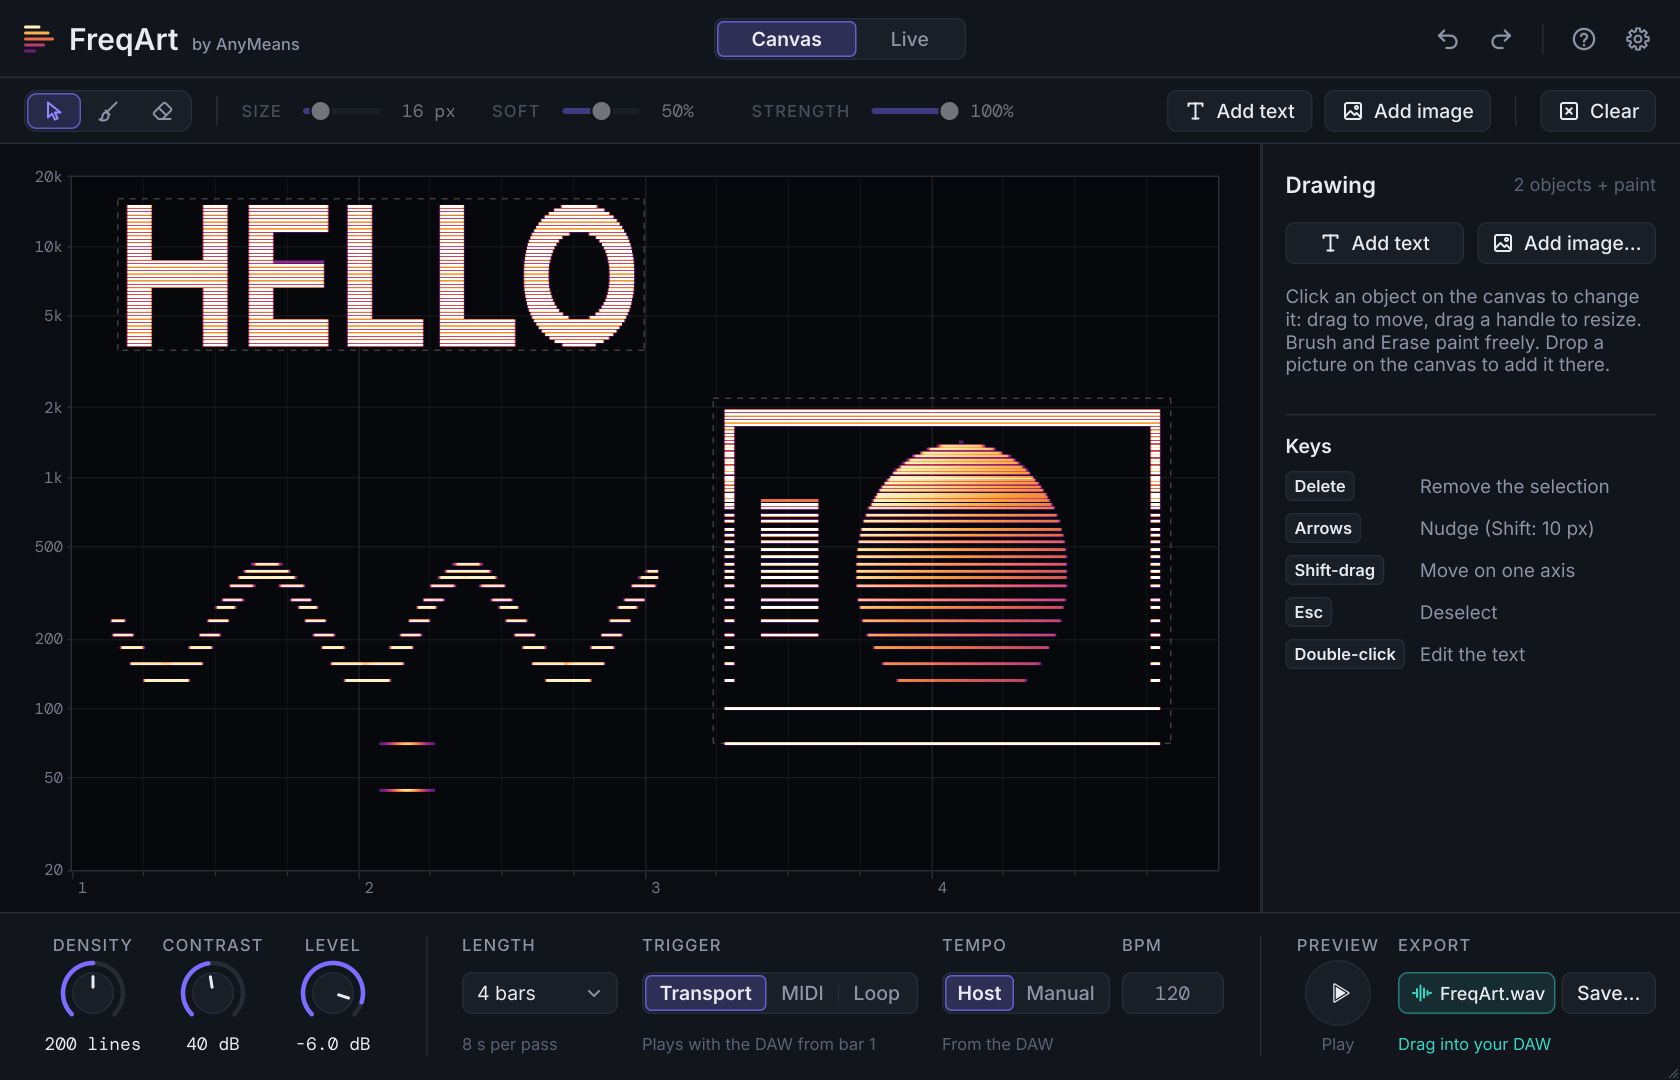
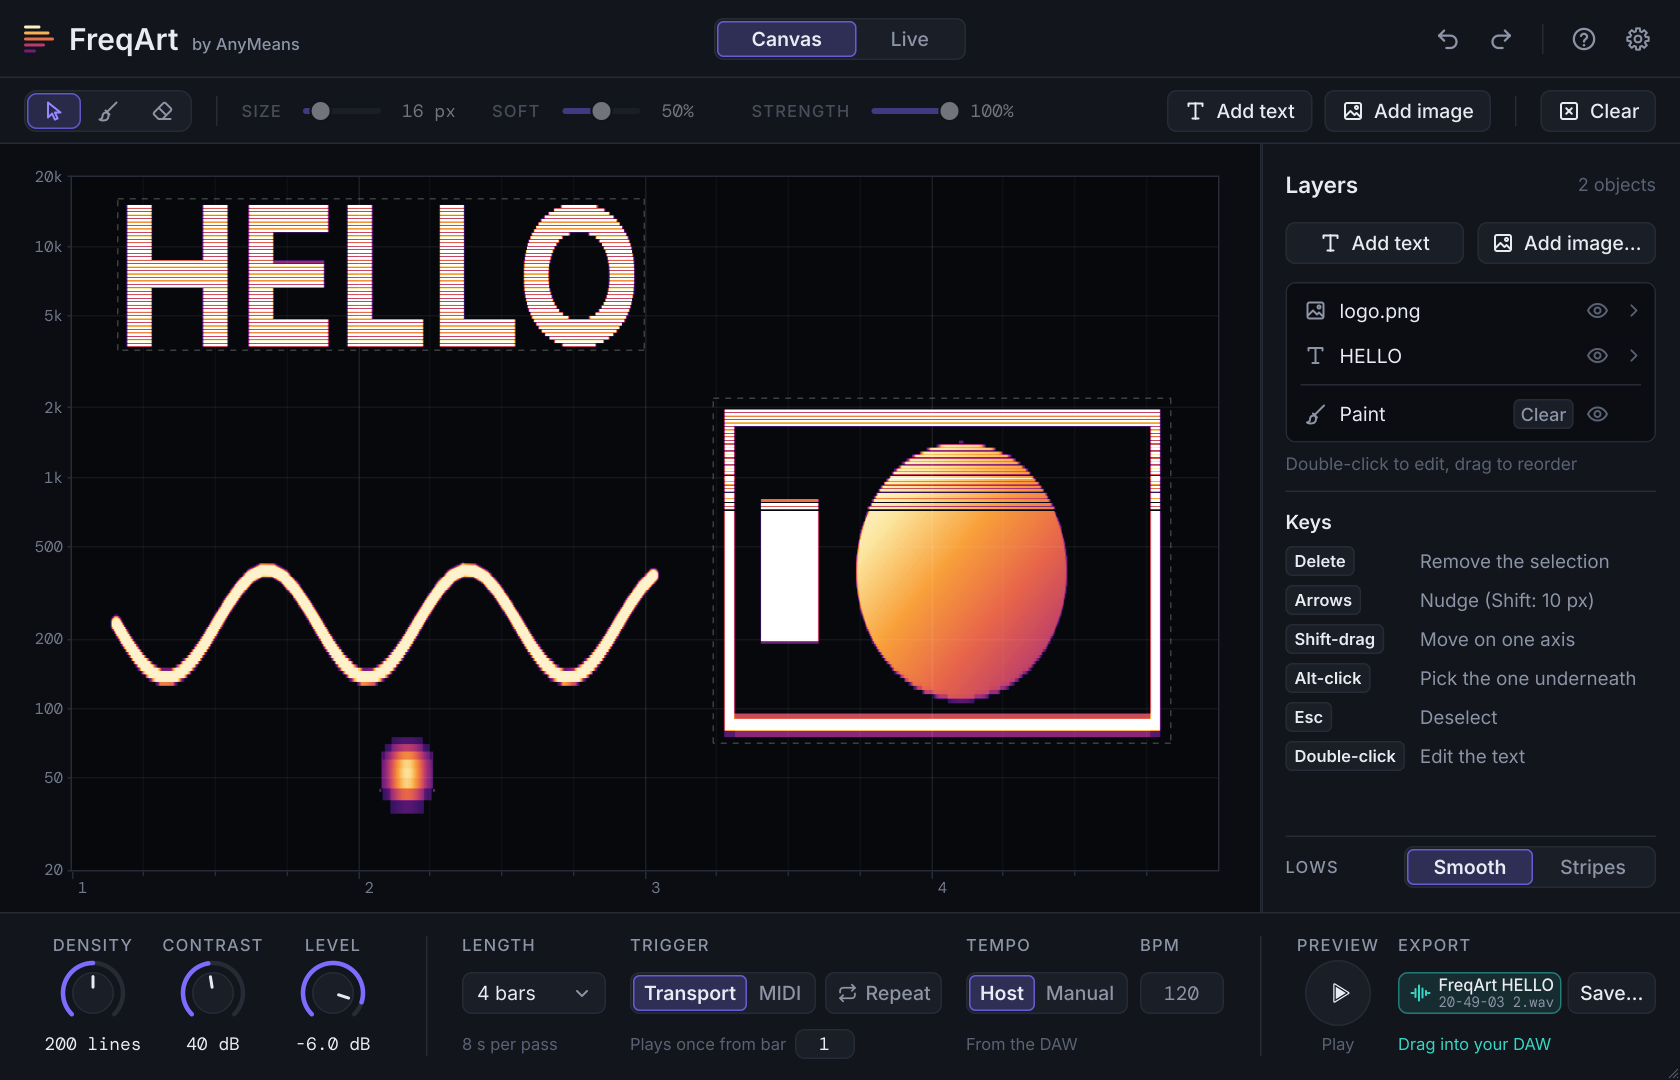
Release 0.3.0: Smooth lows and FreqArt FX, last review notes, fresh screenshots
FreqArt FX reports its in-flight frame as a tail, takes a typed Depth of
"60" as -60 dB instead of switching carving off, greys Lows in the modes
that play no sines, and the docs say FL Studio can send MIDI to it. The
screenshots are rendered from this build, with Layers, Repeat and the
FX modes added.

Claude-Session: https://claude.ai/code/session_019o7CvHnop97oWByPaJgwMf

diff --git a/src/ui/Inspector.cpp b/src/ui/Inspector.cpp
@@ -835,7 +835,8 @@ struct Inspector::Impl
         {
             g.setColour (theme::line);
             g.fillRect (lowsRow.getX(), lowsRow.getY() - lowsGap / 2 - 1, lowsRow.getWidth(), 1);
-            shell::drawCaps (g, "Lows", lowsRow.withRight (lowsControl.getX() - 8), juce::Justification::centredLeft, theme::textDim);
+            shell::drawCaps (g, "Lows", lowsRow.withRight (lowsControl.getX() - 8), juce::Justification::centredLeft,
+                             lowsControl.isEnabled() ? theme::textDim : theme::textFaint);
         }
 
         if (! timeReadoutArea.isEmpty())
@@ -1019,6 +1020,20 @@ Inspector::~Inspector()
 
     if (impl->installedFocusCallback)
         impl->state.focusTextField = nullptr;
+}
+
+void Inspector::refreshEffectMode()
+{
+    if (! impl->processor.isEffect())
+        return;
+
+    const auto sines = playsSines (impl->processor.getEffectMode());
+
+    if (impl->lowsControl.isEnabled() != sines)
+    {
+        impl->lowsControl.setEnabled (sines);
+        repaint();
+    }
 }
 
 void Inspector::focusTextField()

diff --git a/src/PluginProcessor.h b/src/PluginProcessor.h
@@ -67,7 +67,14 @@ public:
     bool acceptsMidi() const override { return true; }
     bool producesMidi() const override { return false; }
     bool isMidiEffect() const override { return false; }
-    double getTailLengthSeconds() const override { return 0.0; }
+    // The effect always has one frame of audio in flight (and its sines in the Draw modes), so a
+    // host that stops calling it on silent input must keep going that long; the instrument fades
+    // within a block.
+    double getTailLengthSeconds() const override
+    {
+        const auto rate = getSampleRate();
+        return isEffect() && rate > 0.0 ? getLatencySamples() / rate + 0.05 : 0.0;
+    }
 
     int getNumPrograms() override { return 1; }
     int getCurrentProgram() override { return 0; }

diff --git a/src/ui/ShellPanels.cpp b/src/ui/ShellPanels.cpp
@@ -409,7 +409,7 @@ namespace
         static const std::vector<Paragraph> list {
             { "As in FreqArt.", "Length, Trigger, Repeat and Tempo work as in the instrument; outside the pass the "
                                 "audio passes untouched." },
-            { "MIDI note", "works where the DAW sends MIDI to effects (Reaper, Bitwig, Cubase, Studio One). Ableton "
+            { "MIDI note", "works where the DAW sends MIDI to effects (Reaper, Bitwig, Cubase, Studio One, FL Studio). Ableton "
                            "Live does not: use Transport there." },
             { "Latency:", "85 ms, the same in every mode and in bypass. Your DAW makes up for it." },
         };

diff --git a/src/Parameters.cpp b/src/Parameters.cpp
@@ -241,7 +241,9 @@ juce::AudioProcessorValueTreeState::ParameterLayout createLayout (bool forEffect
             FloatAttributes()
                 .withLabel ("dB")
                 .withStringFromValueFunction ([] (float v, int) { return formatDb (v, 0); })
-                .withValueFromStringFunction ([] (const juce::String& t) { return parseNumber (t); })));
+                // Depth only goes down: "60" or "60 dB" typed in means -60 dB, not 0 dB (which
+                // would silently switch the carving off).
+                .withValueFromStringFunction ([] (const juce::String& t) { return -std::abs (parseNumber (t)); })));
     }
 
     return layout;

diff --git a/src/ui/ShellControls.cpp b/src/ui/ShellControls.cpp
@@ -458,7 +458,12 @@ void NumberField::closeEditor (bool commit)
     if (commit)
     {
         const auto range = parameter.getNormalisableRange();
-        const auto typed = parseNumber (outgoing->getText(), value);
+        auto typed = parseNumber (outgoing->getText(), value);
+
+        // A range that only goes below zero (Depth) takes "60" to mean -60.
+        if (range.end <= 0.0f)
+            typed = -std::abs (typed);
+
         attachment.setValueAsCompleteGesture (juce::jlimit (range.start, range.end, static_cast<float> (typed)));
     }
 

diff --git a/src/ui/Inspector.h b/src/ui/Inspector.h
@@ -24,6 +24,10 @@ public:
         its contents. */
     void focusTextField();
 
+    /** FreqArt FX: greys Lows in the modes that play no sines (it shapes only the sines). Called
+        from the editor's timer, as the footer's knobs are. */
+    void refreshEffectMode();
+
     void paint (juce::Graphics&) override;
     void resized() override;
 

diff --git a/src/ui/Editor.cpp b/src/ui/Editor.cpp
@@ -468,7 +468,10 @@ namespace
             footer.refresh();
 
             if (effectControls != nullptr)
+            {
                 effectControls->refresh();
+                inspector.refreshEffectMode();
+            }
         }
 
         FreqArtProcessor& processor;

diff --git a/README.md b/README.md
@@ -64,7 +64,7 @@ On a full song the drawing's own sound can get lost in everything else going on.
 
 **Preview** runs the drawing's pass from its start on whatever audio comes in, even while the DAW is stopped (once, or on a loop with Repeat), and plays the sines in the Draw modes. Most DAWs keep feeding audio to effects while stopped (a track monitoring its input, the master with other plug-ins playing); with silence coming in, Carve and Stencil have nothing to show, and the Live view stays dark.
 
-**MIDI.** FreqArt FX accepts MIDI, so Trigger = MIDI works where the DAW sends MIDI to an audio effect: **Reaper** (MIDI on the track reaches its effects), **Bitwig**, **Cubase** (pick FreqArt FX as a MIDI track's output) and **Studio One** (route a note track to it). **Ableton Live does not send MIDI to audio effects** (nor does FL Studio's mixer): use Transport there, which needs no MIDI.
+**MIDI.** FreqArt FX accepts MIDI, so Trigger = MIDI works where the DAW sends MIDI to an audio effect: **Reaper** (MIDI on the track reaches its effects), **Bitwig**, **Cubase** (pick FreqArt FX as a MIDI track's output) and **Studio One** (route a note track to it). **FL Studio** can too (in the effect's wrapper, set its MIDI input port, and send a MIDI Out channel or controller to that port). **Ableton Live does not send MIDI to audio effects**: use Transport there, which needs no MIDI.
 
 ### Moving between the two
 

diff --git a/docs/DESIGN.md b/docs/DESIGN.md
@@ -409,9 +409,9 @@ therefore registered twice: **FreqArt** (Instrument, Generator; unchanged) and *
 - **Preview** runs the pass from the start on whatever audio comes in, also while the DAW is
   stopped (most hosts keep feeding effects), once or on a loop with Repeat, and plays the sines in
   the Draw modes: the same as the instrument's Preview, on the song.
-- **MIDI.** The effect asks for MIDI: Reaper, Bitwig, Cubase and Studio One can send it to an
-  audio effect, so Trigger = MIDI works there. Ableton Live never sends MIDI to audio effects (nor
-  does FL Studio's mixer): Transport needs none.
+- **MIDI.** The effect asks for MIDI: Reaper, Bitwig, Cubase, Studio One and FL Studio (through
+  the wrapper's MIDI input port) can send it to an audio effect, so Trigger = MIDI works there.
+  Ableton Live never sends MIDI to audio effects: Transport needs none.
 - **State.** The same XML as the instrument's (`FreqArtState`, now with a `plugin` attribute
   naming the variant that saved it), so either loads the other's drawing and shared settings:
   the instrument leaves out Mode and Depth (unknown parameters are dropped on load, so they are
